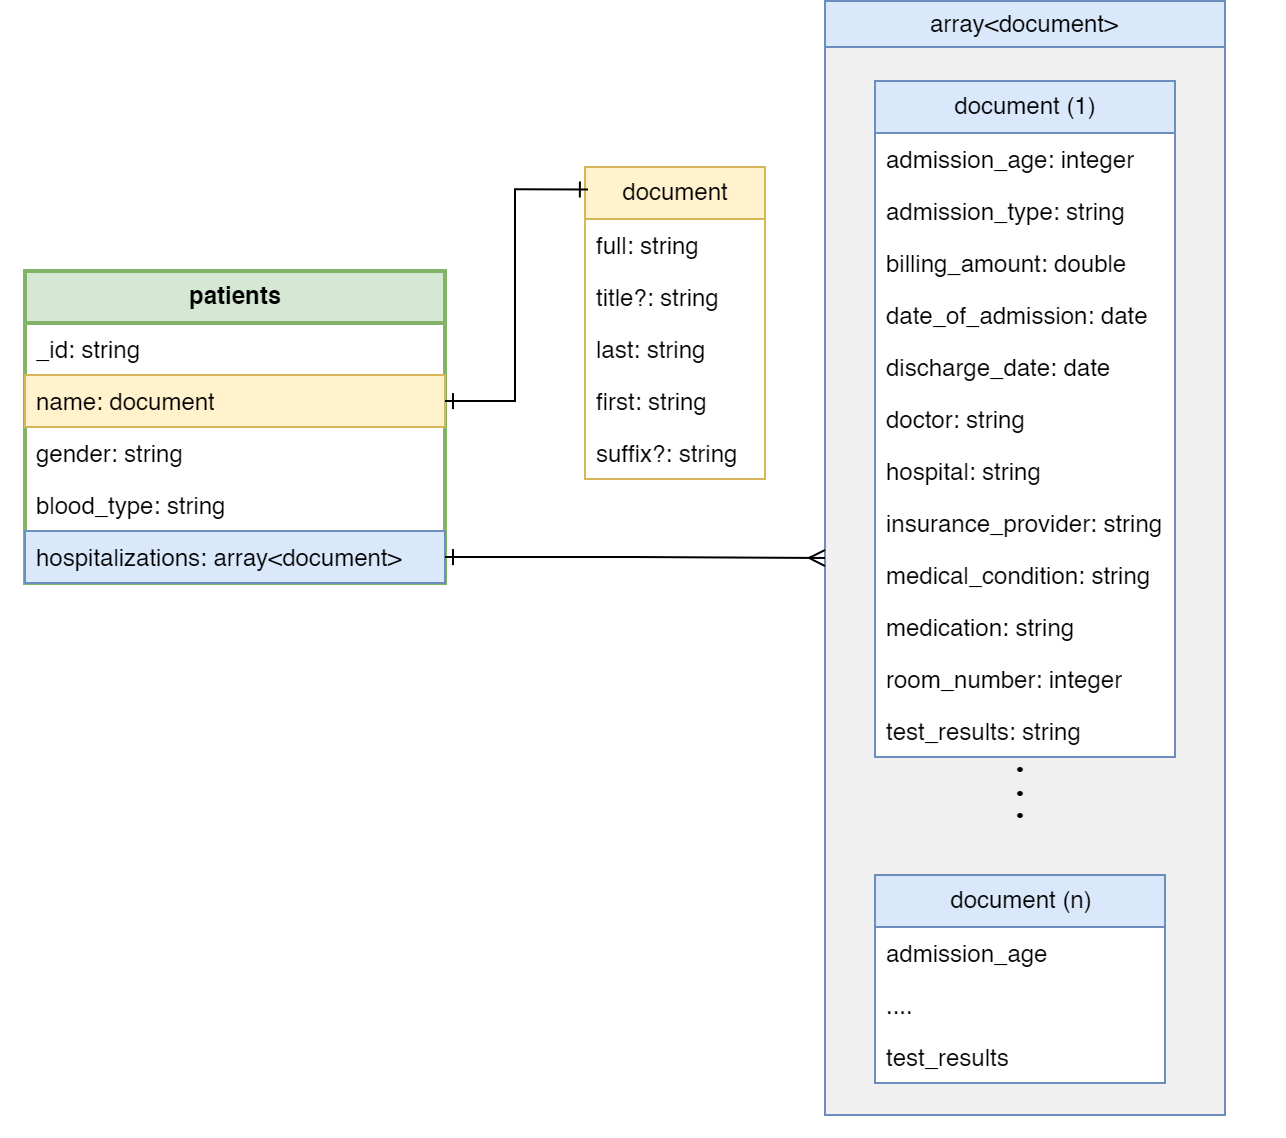
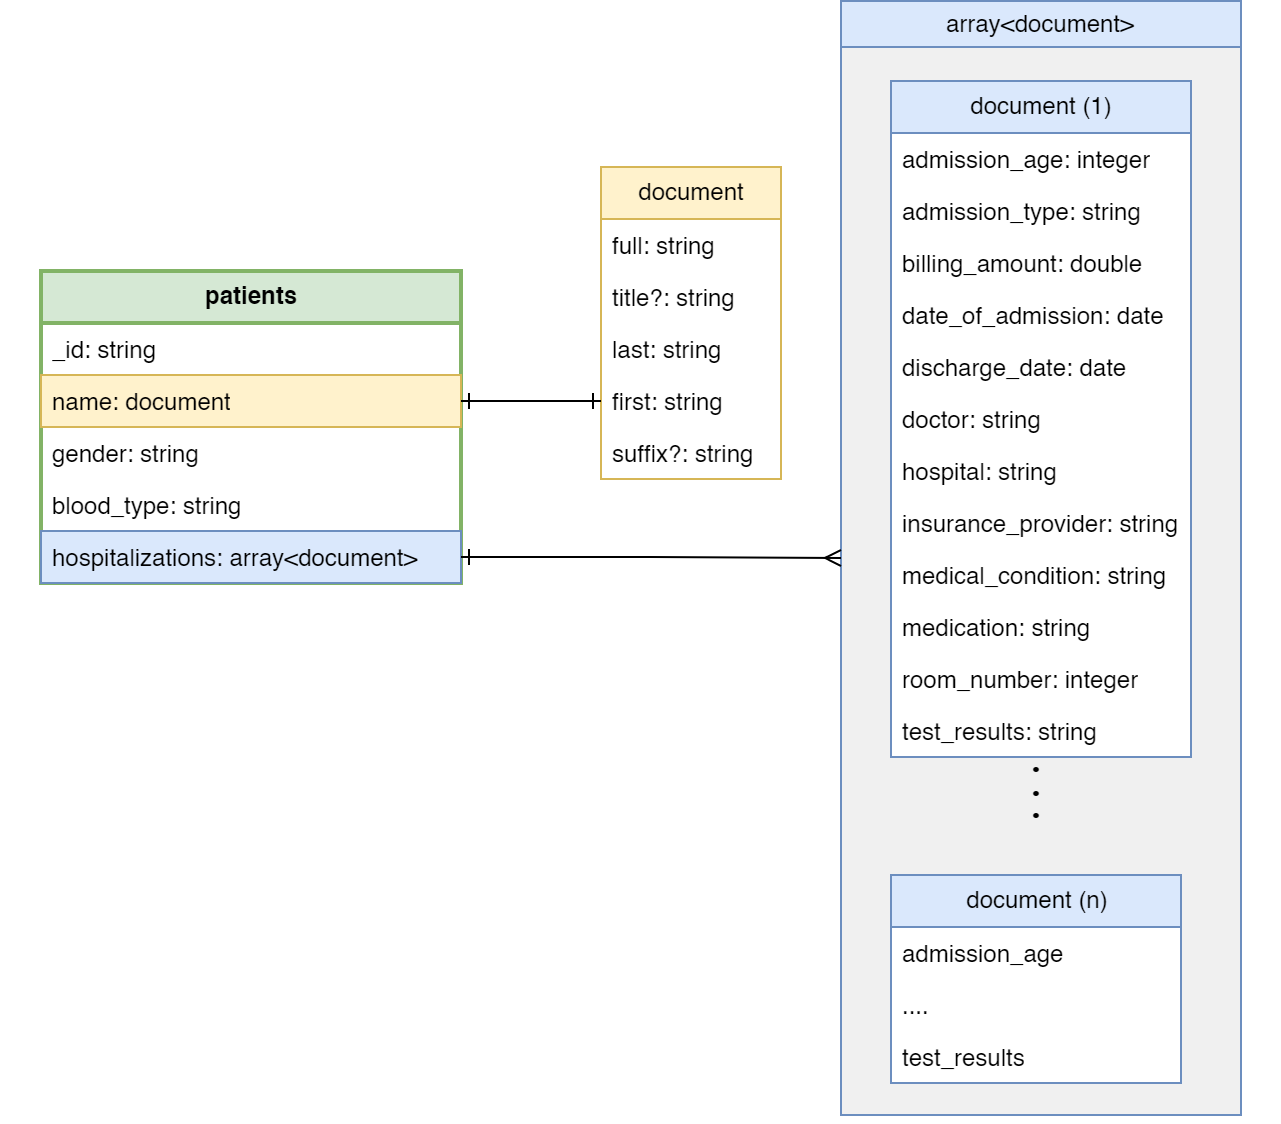
docs: Add note for Docker deployment on Linux

diff --git a/README.md b/README.md
@@ -17,8 +17,6 @@ La mission initiale était de migrer un dataset de données médicales pour un c
 -   **Sécurité :** Mettre en place un système d'authentification avec des rôles utilisateurs distincts.
 -   **Maintenabilité :** Produire un code propre, orienté objet, et configurable via des variables d'environnement.
 
----
-
 ## 🏗 Architecture de la Solution
 
 La solution est orchestrée par `docker-compose.yml` et s'articule autour de trois services principaux communiquant via un réseau privé `etl-network`.
@@ -29,11 +27,10 @@ La solution est orchestrée par `docker-compose.yml` et s'articule autour de tro
 -   **`mongo`**: Le service de base de données MongoDB. Il est configuré pour persister les données via un volume nommé (`mongo_data`) et pour centraliser ses logs. Au premier démarrage, il exécute un script d'initialisation pour créer les utilisateurs.
 - **`mongo-express`**: Une interface web d'administration pour visualiser et interroger facilement la base de données. Par défaut, elle est configurée pour se connecter avec l'utilisateur **administrateur** afin de faciliter le développement et le debug. Il est cependant possible de la reconfigurer pour utiliser le compte **analyste** en lecture seule (voir la section *Utilisation Avancée*).
 
----
 
 ## 💾 Modélisation des Données
 
-L'analyse initiale a révélé que le dataset source représentait des **hospitalisations** et non des patients uniques. Pour répondre à cette réalité, le pipeline a été conçu pour supporter deux stratégies de modélisation NoSQL, sélectionnables via la variable `DATA_MODELLING_MODE` dans le fichier `.env`.
+L'analyse initiale a révélé que le dataset source représentait des **hospitalisations** et non des patients uniques. Pour répondre à cette réalité, le pipeline a été conçu pour supporter deux stratégies de modélisation NoSQL, sélectionnables via la variable `DATA_MODELLING_MODE` dans le fichier `config/config.py`.
 
 ### 1. Modèle `embedding` (par défaut)
 
@@ -46,7 +43,6 @@ Ce modèle est optimisé pour les cas d'usage où les lectures sont fréquentes 
 Ce modèle normalise les données dans deux collections distinctes, ce qui est idéal pour les environnements avec de nombreuses mises à jour ou si les listes d'hospitalisations deviennent très grandes. La relation entre les deux collections est établie via un champ `patient_id` et peut être résolue à la lecture grâce à l'opération `$lookup`.
 
 ![Schéma du modèle de référence](./assets/reference_schema.png)
----
 
 ## 🚀 Installation et Lancement
 
@@ -84,8 +80,21 @@ docker-compose up -d --build
 docker-compose up --build
 ```
 Le pipeline s'exécute automatiquement au démarrage. La première exécution peut prendre un peu de temps pour télécharger les images et installer les dépendances.
+### 🐧 Note Spécifique pour les Utilisateurs Linux
 
----
+Docker sous Linux gère les permissions des volumes de manière stricte. Si vous rencontrez une erreur de permission au démarrage du service `mongo` (liée à l'impossibilité d'écrire dans les fichiers de log), cela signifie que le conteneur n'a pas les droits d'écriture sur le dossier `logs/` de votre machine.
+
+Pour résoudre ce problème, assurez-vous que ce dossier appartient à l'utilisateur `mongodb` (UID `999`) qui est utilisé à l'intérieur du conteneur.
+
+Exécutez la commande suivante à la racine de votre projet **avant** de lancer `docker-compose up` :
+
+```bash
+# Crée le dossier s'il n'existe pas
+mkdir -p logs
+
+# Donne la possession du dossier à l'UID approprié
+sudo chown -R 999:999 logs/
+```
 
 ## 🛠 Utilisation et Monitoring
 
@@ -131,3 +140,5 @@ Par défaut, `mongo-express` se connecte avec les droits d'administrateur pour f
     docker-compose up -d --build
     ```
 L'interface web n'aura maintenant que des droits de lecture sur la base `medical_db`.
+
+---
